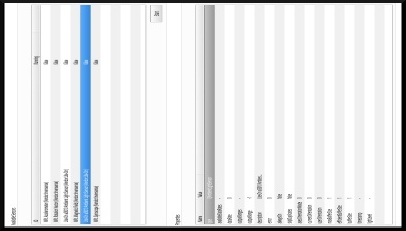
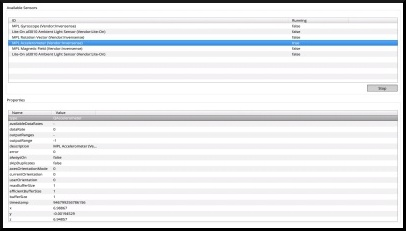
Show Sensor Explorer example in landscape

diff --git a/basicsuite/SensorExplorer/main.qml b/basicsuite/SensorExplorer/main.qml
@@ -50,12 +50,12 @@ Item {
     id: root
     width: 800
     height: 1280
+
     Rectangle {
         id: main
-        width: root.height
-        height: root.width
+        width: root.width
+        height: root.height
         anchors.centerIn: parent
-        rotation: -90
 
         //! [1]
         SensorExplorer {
